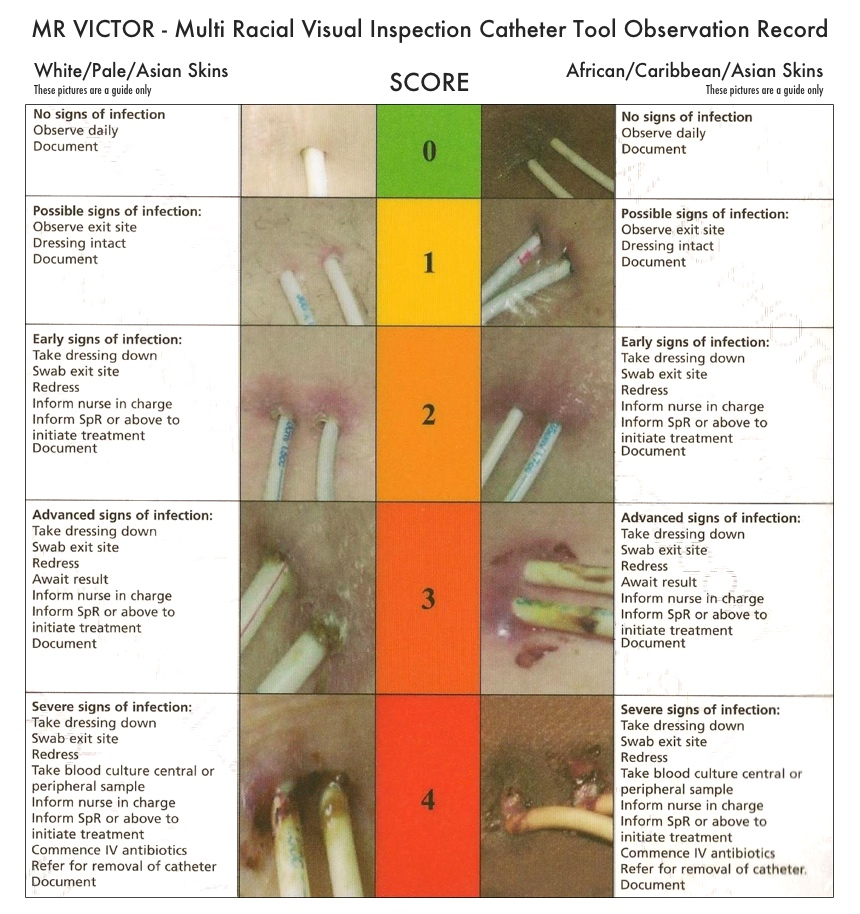
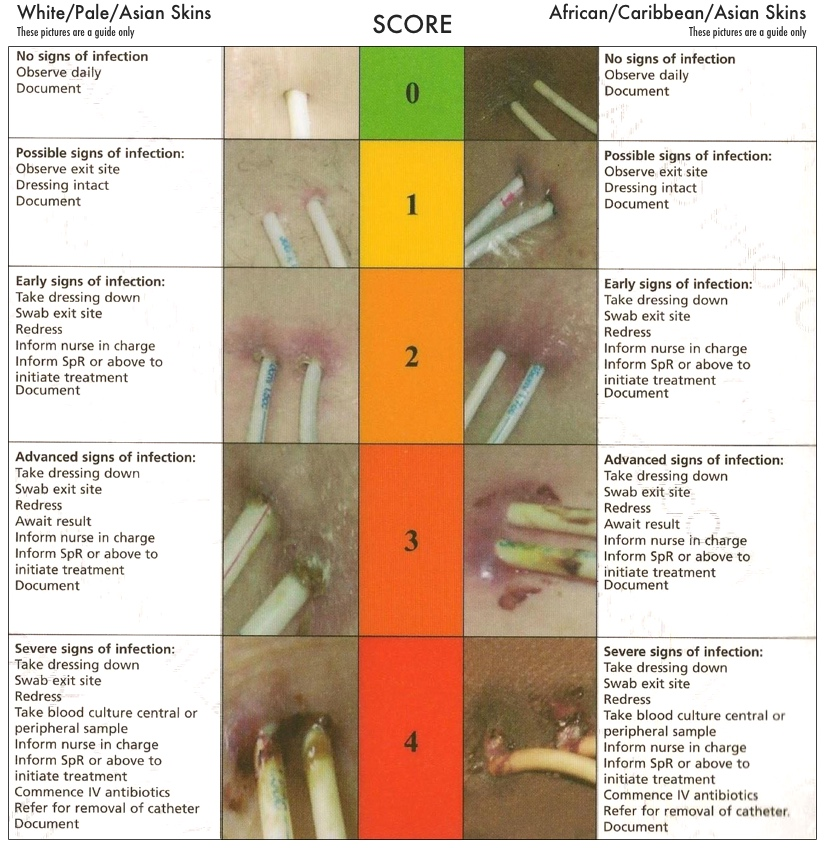
Add Mr Victor image pop up to help a user choose an option

diff --git a/app/assets/stylesheets/renalware/partials/_simple_form.scss b/app/assets/stylesheets/renalware/partials/_simple_form.scss
@@ -1,4 +1,22 @@
 .simple_form {
+  /*
+  This class repositions the hint to the right of the input and adds a ? icon to the anchor.
+  Used for example in help popups/tooltips on forms.
+  */
+  .hint.hint-help-link {
+    display: inline-block;
+    margin-left: 1rem;
+
+    a {
+      font-size: 1.5rem;
+      @extend %fa-icon;
+      @extend .far;
+
+      &:before {
+        content: fa-content($fa-var-question-circle);
+      }
+    }
+  }
 
   fieldset {
     border: 0;

diff --git a/app/assets/javascripts/renalware/forms.js b/app/assets/javascripts/renalware/forms.js
@@ -1,3 +1,4 @@
+
 // On forms with more than one submit button, apply the disable-with label to
 // only the clicked button, and just disable the other buttons.
 // See for instance the HD Session form.

diff --git a/lib/renalware/engine.rb b/lib/renalware/engine.rb
@@ -145,6 +145,7 @@ module Renalware
         renalware/favicon/safari-pinned-tab.svg
         renalware/clippy.svg
         renalware/print-button-example.png
+        renalware/hd/mr_victor.jpg
       )
       app.config.assets.paths <<
         Rails.root.join(config.root, "vendor", "assets", "javascripts", "renalware")
